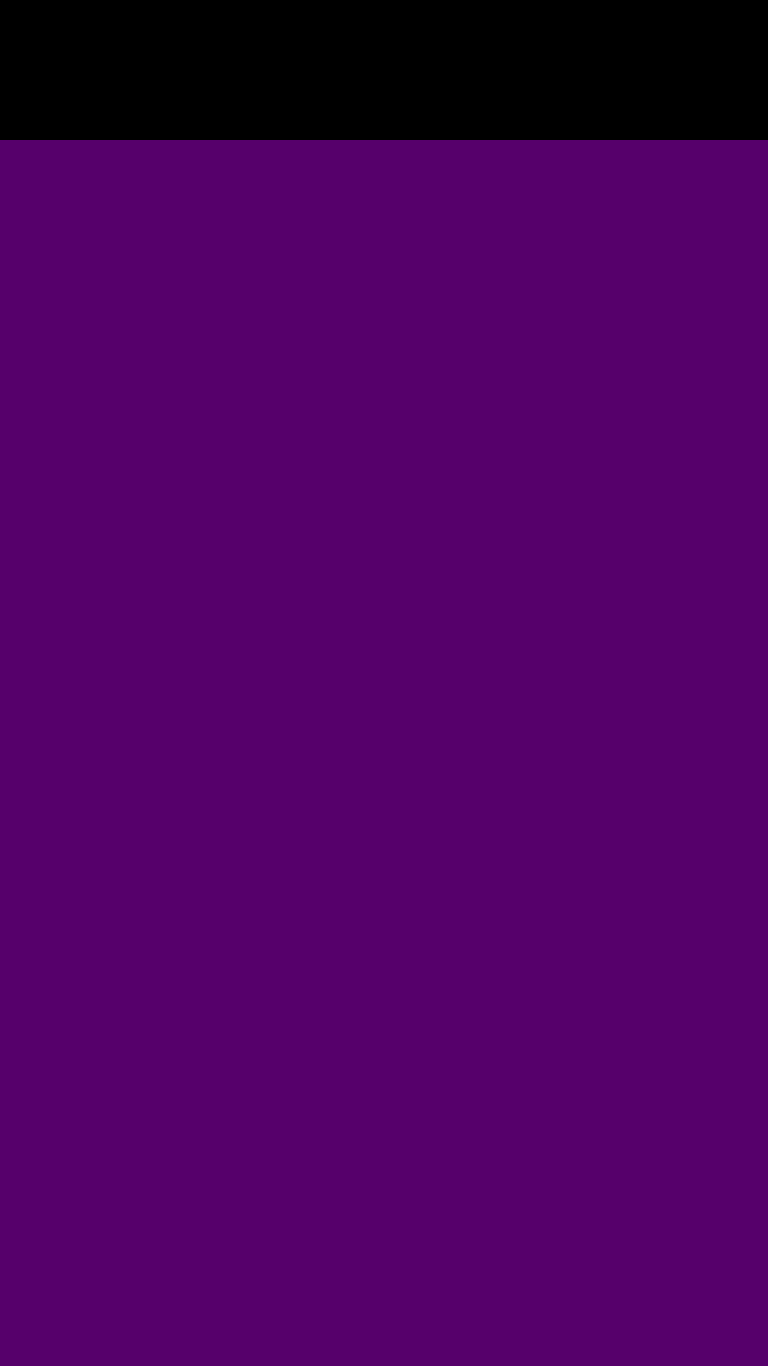
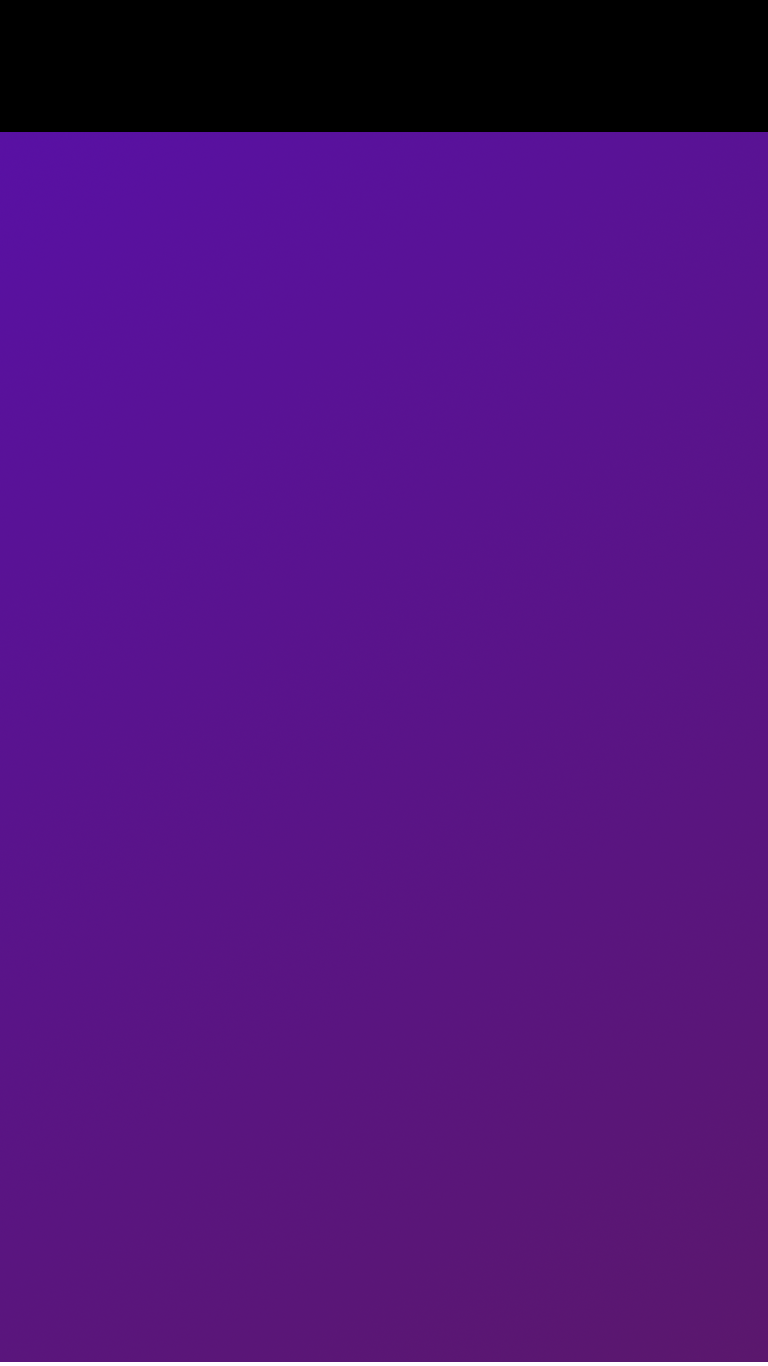
Animacje, zmiana tła, proba dodania plikow dzwiekowych(nieudana), drobne poprawki

diff --git a/app/src/main/java/com/example/disclicker/MainActivity.kt b/app/src/main/java/com/example/disclicker/MainActivity.kt
@@ -1,12 +1,14 @@
 package com.example.disclicker
 
 import android.content.Intent
-import androidx.appcompat.app.AppCompatActivity
 import android.os.Bundle
+import android.view.animation.AnimationUtils
 import android.widget.Button
 import android.widget.ImageButton
 import android.widget.ImageView
 import android.widget.TextView
+import androidx.appcompat.app.AppCompatActivity
+
 
 var wynik = 0.toLong()
 var ile_dostajesz = 1
@@ -15,22 +17,37 @@ class MainActivity : AppCompatActivity() {
     override fun onCreate(savedInstanceState: Bundle?) {
         super.onCreate(savedInstanceState)
         setContentView(R.layout.main_activity)
+
         val przycisk_podstawowy = findViewById<ImageButton>(R.id.jdbutton)
         val settings_button = findViewById<Button>(R.id.settings)
         val smieszne_ciuszki_button = findViewById<ImageView>(R.id.smieszneciuszki)
         val score_text = findViewById<TextView>(R.id.score_text)
 
-        var ile_dostajesz = 1
+        val scale_down = AnimationUtils.loadAnimation(this,R.anim.scale_down)
+        val scale_up = AnimationUtils.loadAnimation(this,R.anim.scale_up)
+        val rotate = AnimationUtils.loadAnimation(this,R.anim.rotate)
+        val fade = AnimationUtils.loadAnimation(this,R.anim.fade)
 
         przycisk_podstawowy.setOnClickListener {
+            przycisk_podstawowy.startAnimation(scale_up)
+            przycisk_podstawowy.startAnimation(scale_down)
             wynik += ile_dostajesz
             score_text.text = wynik.toString()
+            /*if(){
+                przycisk_podstawowy.startAnimation(rotate)
+            }
+            else{
+                przycisk_podstawowy.startAnimation(scale_up)
+                przycisk_podstawowy.startAnimation(scale_down)
+            }*/
         }
         settings_button.setOnClickListener {
+            settings_button.startAnimation(fade)
             val intent = Intent(this,settings_activity::class.java)
             startActivity(intent)
         }
         smieszne_ciuszki_button.setOnClickListener {
+            smieszne_ciuszki_button.startAnimation(rotate)
             val intent = Intent(this,smieszne_ciuszki_activity::class.java)
             startActivity(intent)
         }
